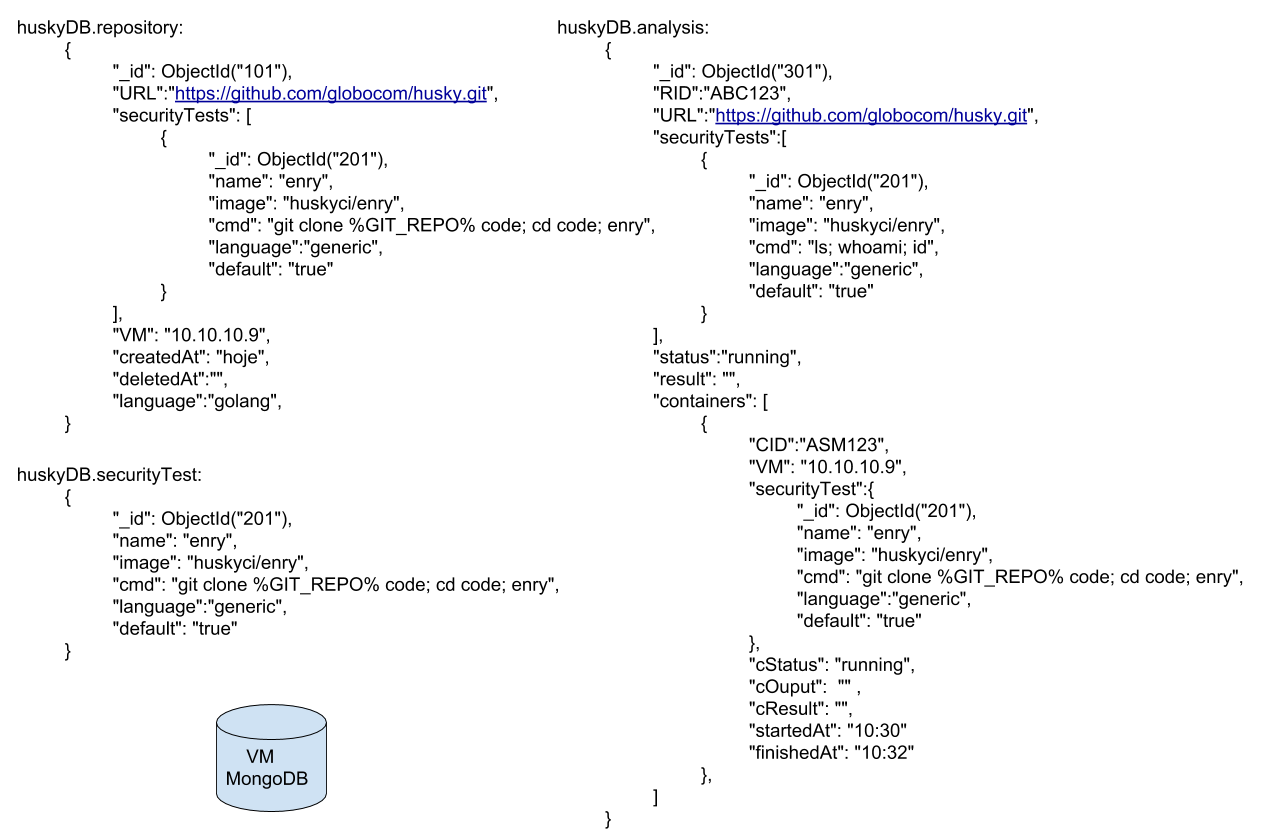
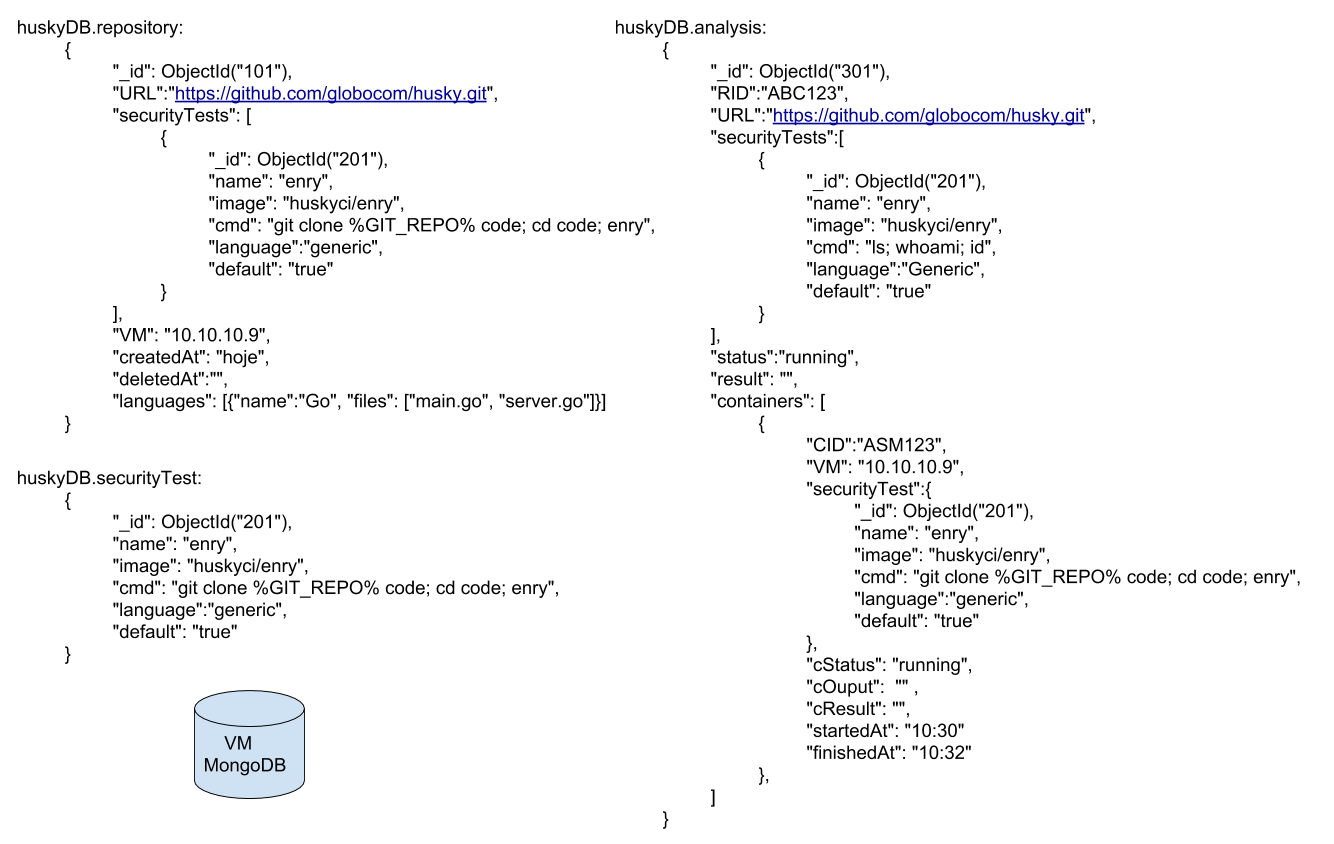
[FEAT] Create a new struct "Language"
"Languages" (type []string) from Repository struct was being used because enry's output was not in a JSON format.

A new struct "Language" is added that stores both name and all files related to a particular language taken from enry's JSON output.

diff --git a/types/types.go b/types/types.go
@@ -15,7 +15,7 @@ type Repository struct {
 	VM               string         `bson:"VM" json:"vm"`
 	CreatedAt        time.Time      `bson:"createdAt" json:"createdAt"`
 	DeletedAt        time.Time      `bson:"deletedAt" json:"deletedAt"`
-	Languages        []string       `bson:"languages" json:"languages"`
+	Languages        []Language     `bson:"languages" json:"languages"`
 }
 
 // SecurityTest is the struct that stores all data from the security tests to be executed.
@@ -49,4 +49,10 @@ type Container struct {
 	CResult      string       `bson:"cResult" json:"cResult"`
 	StartedAt    time.Time    `bson:"startedAt" json:"startedAt"`
 	FinishedAt   time.Time    `bson:"finishedAt" json:"finishedAt"`
+}
+
+// Language is the struct that stores all data from a language's repository.
+type Language struct {
+	Name  string   `bson:"name" json:"language_name"`
+	Files []string `bson:"files" json:"language_files"`
 }
